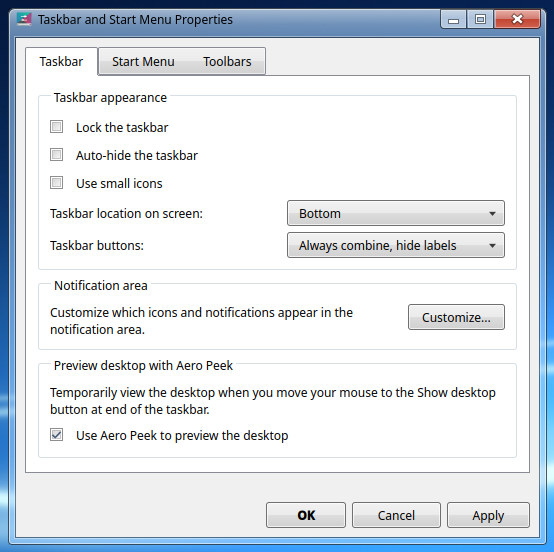
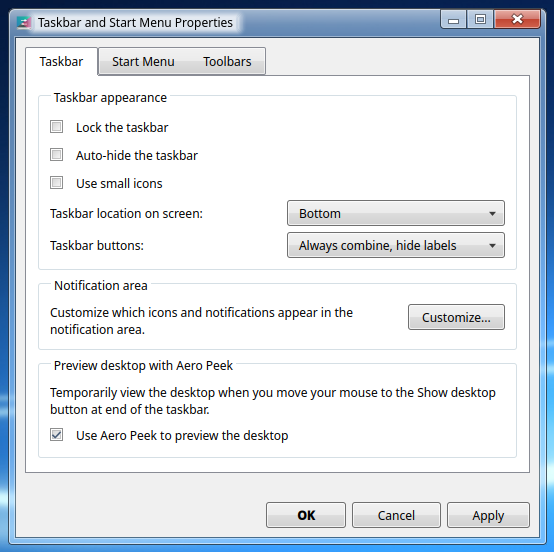
README: Aero pictures with the new window borders; text for solid glass and Computer > Properties; changes list
Claude-Session: https://claude.ai/code/session_016s6KBtMMet2SkJjRnWKefj

Changed region(s): [[0.0307, 0.0, 0.4603, 0.0616]]

diff --git a/README.md b/README.md
@@ -9,7 +9,7 @@ built as an image-based OS on top of [Bazzite](https://bazzite.gg) (Fedora Atomi
 </p>
 
 *Taken by the automatic tests in a Plasma session inside the image (it has no 3D graphics, so Aero's glass is
-see-through there but not blurred). The other pictures on this page come from the same tests or are drawn
+see-through there but not blurred; on such a computer Classic 7 draws the glass solid). The other pictures on this page come from the same tests or are drawn
 off-screen by the programs themselves; the right-click menu picture is a mockup.*
 
 ## What you get
@@ -17,7 +17,7 @@ off-screen by the programs themselves; the right-click menu picture is a mockup.
 | Area | Details |
 |---|---|
 | Looks | **Aero** (new accounts): glass window borders and taskbar in the colour you choose, the round Start orb, task buttons with icons and pinned programs, Aero Peek, its own wallpaper. **Basic**: the same in opaque light blue. **Classic**: grey bevels, blue gradient title bars, Start button, Quick Launch, task buttons with text, classic blue desktop. Switch in Personalization |
-| Window borders | Own Aurorae themes `Classic7Aero` (glass, blurred by KWin), `Classic7Basic` and `Classic7` (pixel-drawn buttons) |
+| Window borders | Aero and Basic: own KWin decorations `classic7aero` and `classic7basic` (QML, run by Aurorae) laid out like Windows 7: buttons hanging from the top edge, icon and title lower in the title bar, a soft light behind the title on glass (blurred by KWin; drawn solid when the graphics can't blur). Classic: the Aurorae theme `Classic7` (pixel-drawn buttons) |
 | Taskbar & popups | Own Plasma styles `classic7-aero` (see-through), `classic7-basic` and `classic7` |
 | Colours | `Classic7Aero` colour scheme (Windows 7 colours) and `Classic7` (Windows Standard palette) |
 | Apps | Aero and Basic: Kvantum style `Classic7Aero` (Windows 7 buttons, tabs, scroll bars, menus) and GTK theme `Classic7Aero`; Classic: Qt "Windows" widget style and GTK `Classic7` (Chicago95 recoloured to the Windows Standard palette) |
@@ -198,7 +198,8 @@ Desktop icon, Start menu or **Win+E** (`classic7-computer`). Like the classic Co
   Security and Details; a folder General, Security and Customize (folder icon); a shortcut also Shortcut; a
   drive General, Tools (Check now) and Security. Read-only is the owner's write permission, Hidden puts the name
   in the folder's `.hidden` file (Explorer and the desktop hide those), and Security shows owner, group and
-  everyone else with the Windows permission names.
+  everyone else with the Windows permission names. Properties of the desktop's **Computer** icon is the System
+  window, as in Windows 7.
 - **Copying, moving and deleting** shows the Windows 7 progress window: "43% complete", "Copying 6,001 items
   (1.52 GB) from Downloads to Documents", time remaining, a progress bar, *More details* (name, from, to, items
   remaining, speed) and Cancel. Several operations share one window; quick ones show nothing, as in Windows. The
@@ -522,7 +523,8 @@ Control Panel > Appearance and Personalization > **Personalization**, Start > Al
   settings.
 - **Window Color** (Aero): 16 glass colours, *Enable transparency*, *Color intensity* and a colour mixer (hue,
   saturation, brightness), with a preview drawn by the theme code. A colour other than the default draws your own
-  copy of the glass theme in `~/.local/share`.
+  copy of the glass theme in `~/.local/share`. Without 3D graphics (KWin can't blur, as in many virtual machines)
+  the glass is drawn solid, as Windows 7 falls back to Basic; it is checked again at each login.
 - **Appearance:** the Classic theme's colour schemes, like the classic Display Properties > Appearance page:
   - **Color scheme:** Classic 7 Standard, XP Blue, Seven Basic, Eleven Light (rounded corners, flat title buttons), Classic Grey, Slate, Sandstone, Terracotta, Pine, Night, High Contrast, plus your own (*Save As…*). The layout stays the same; only colours (and for Eleven Light the window corners and title buttons) change.
   - **Item / Color 1 / Color 2 / Text:** Desktop, Active and Inactive Title Bar (two-colour gradient), 3D Objects, Window, Selected Items, ToolTip. Bevel shades follow the 3D Objects colour.
@@ -726,8 +728,7 @@ Other knobs:
 - No Microsoft artwork, fonts or sounds: icons, Start emblem and fonts are free look-alikes (Noto Sans).
 - The login screen always uses the Classic 7 Standard blue; Personalization doesn't change it.
 - Aero's glass is blurred by KWin's Blur effect, which needs OpenGL: in a virtual machine without 3D
-  acceleration the glass is see-through but sharp. Window titles have no white glow behind the text, and Aero
-  Peek shows the desktop rather than outlines of the windows.
+  acceleration the glass is drawn solid instead. Aero Peek shows the desktop rather than outlines of the windows.
 - Programs pick their controls when they start, so open programs keep the old ones after a theme change
   until they are started again. Taskbar and Start Menu Properties has only Quick Launch under Toolbars
   (no Address, Links or Desktop toolbars).
